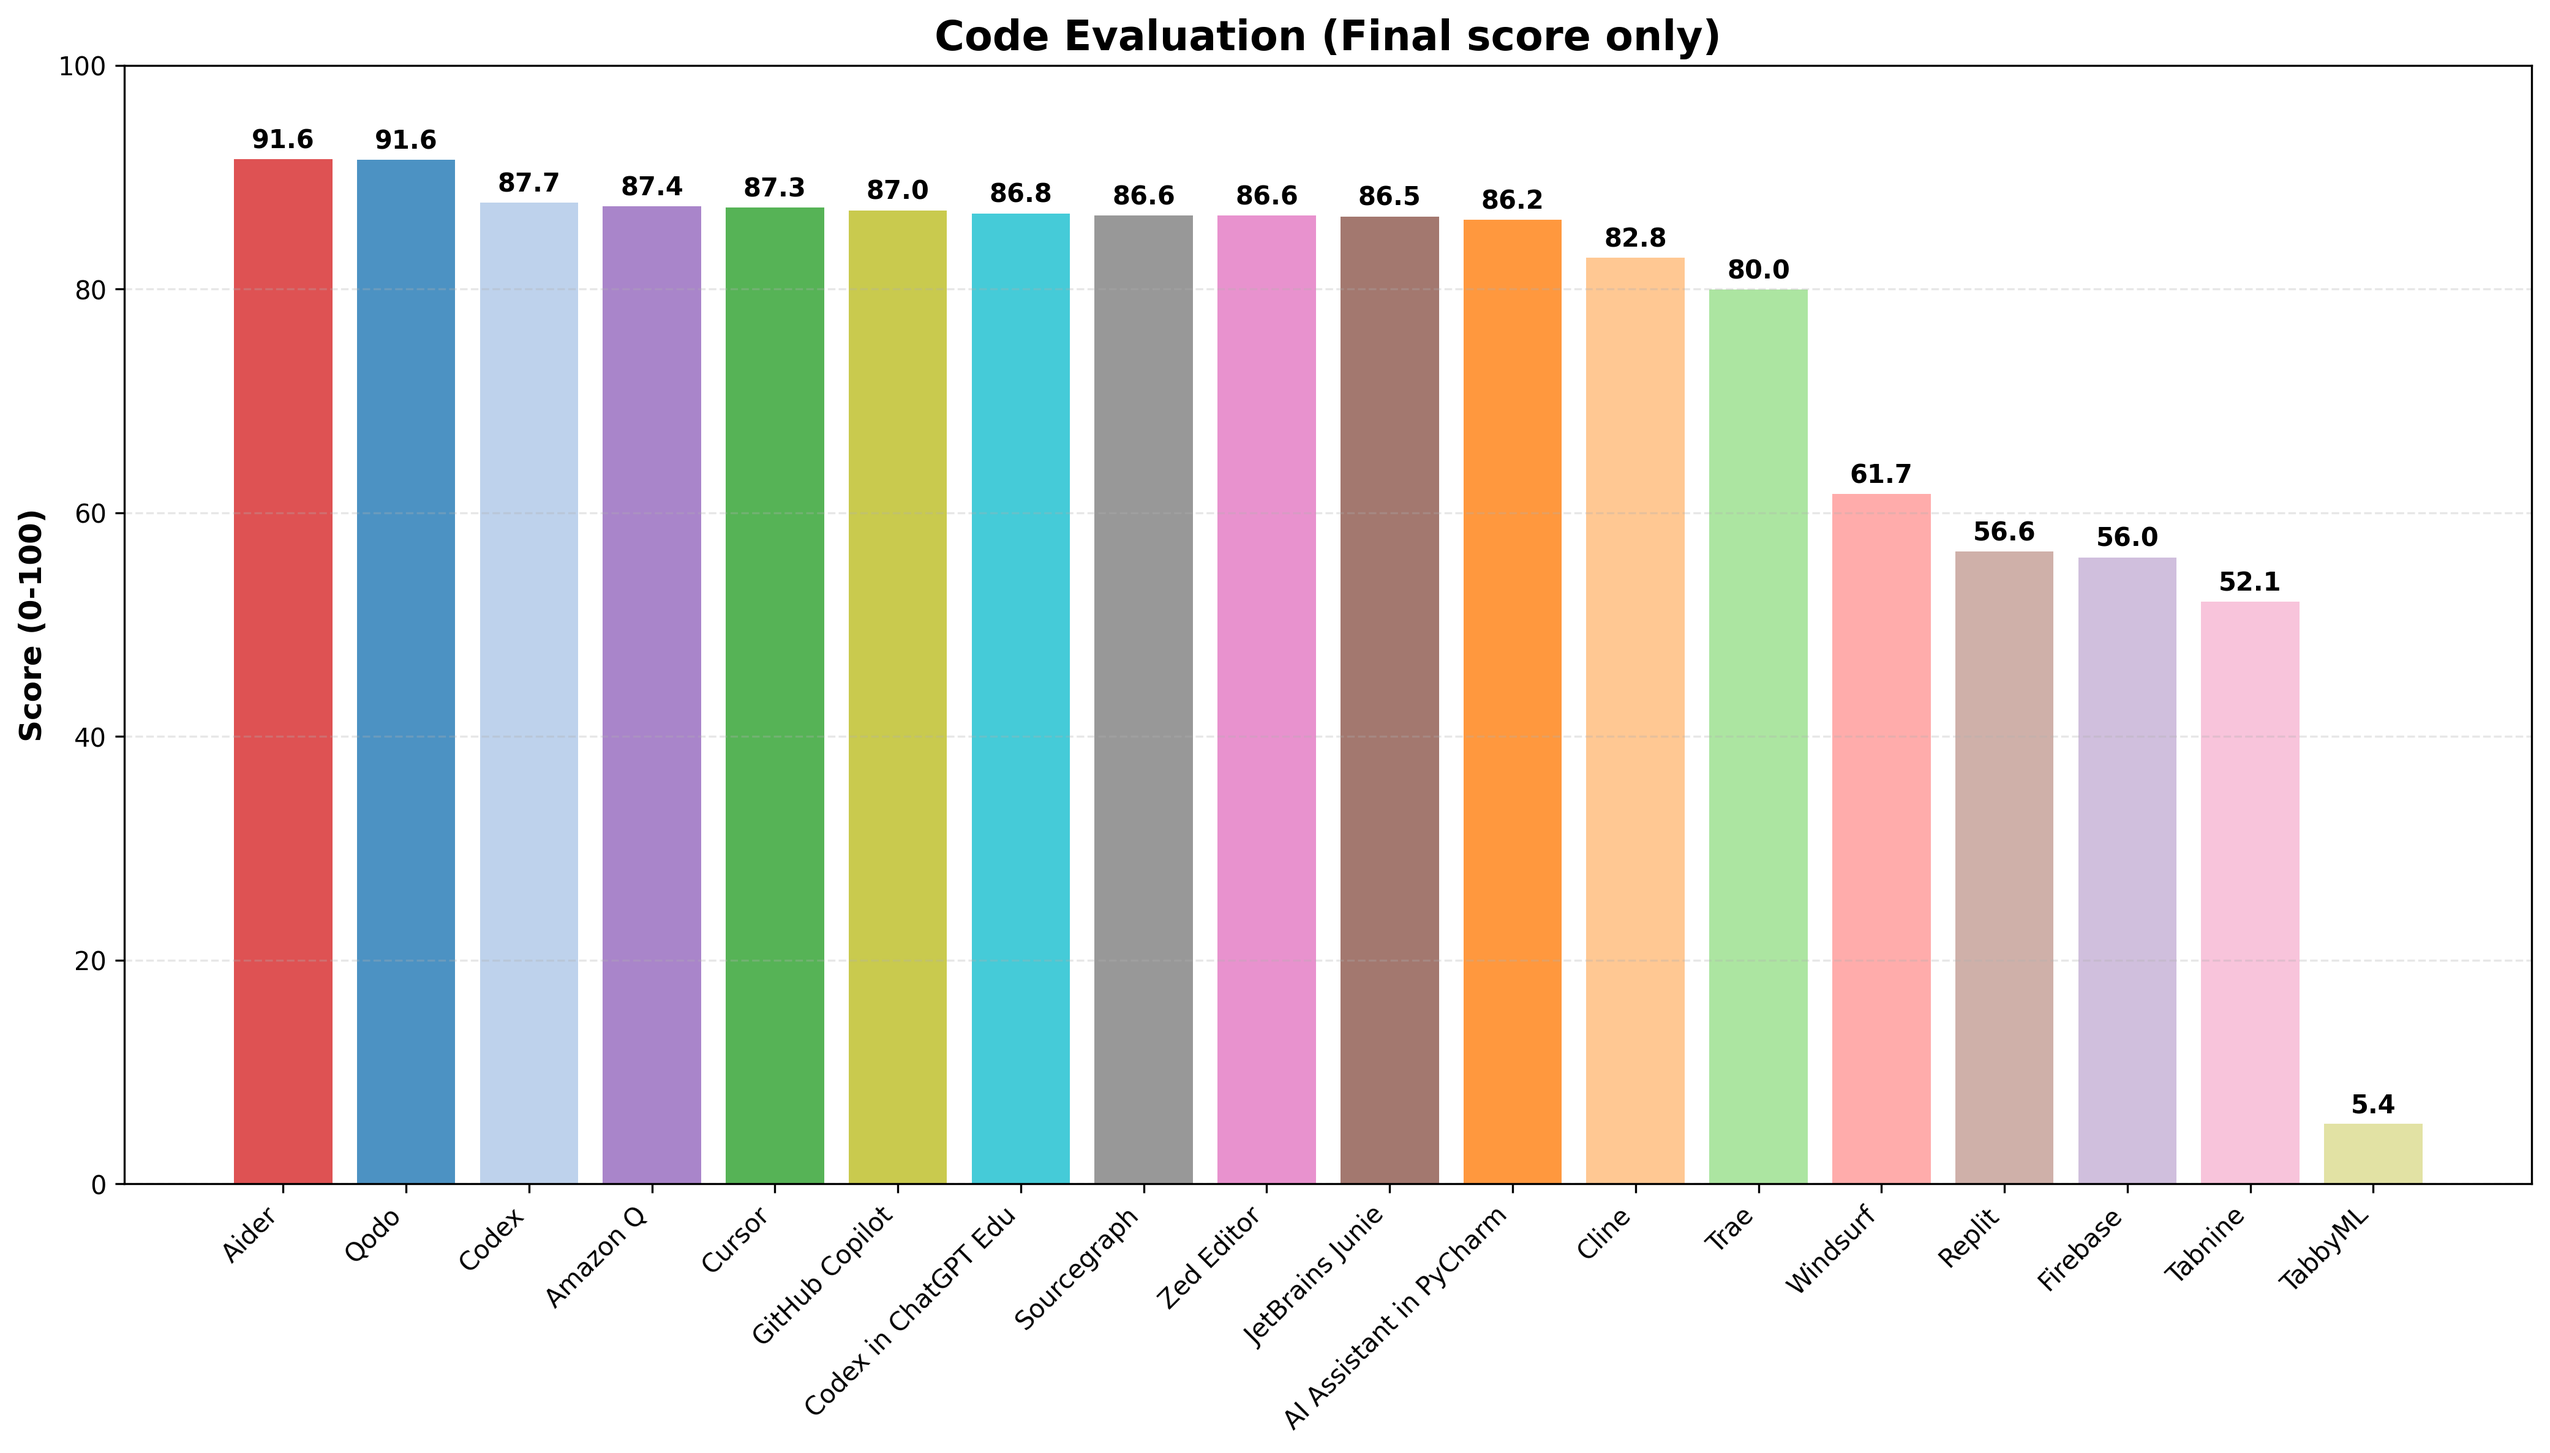
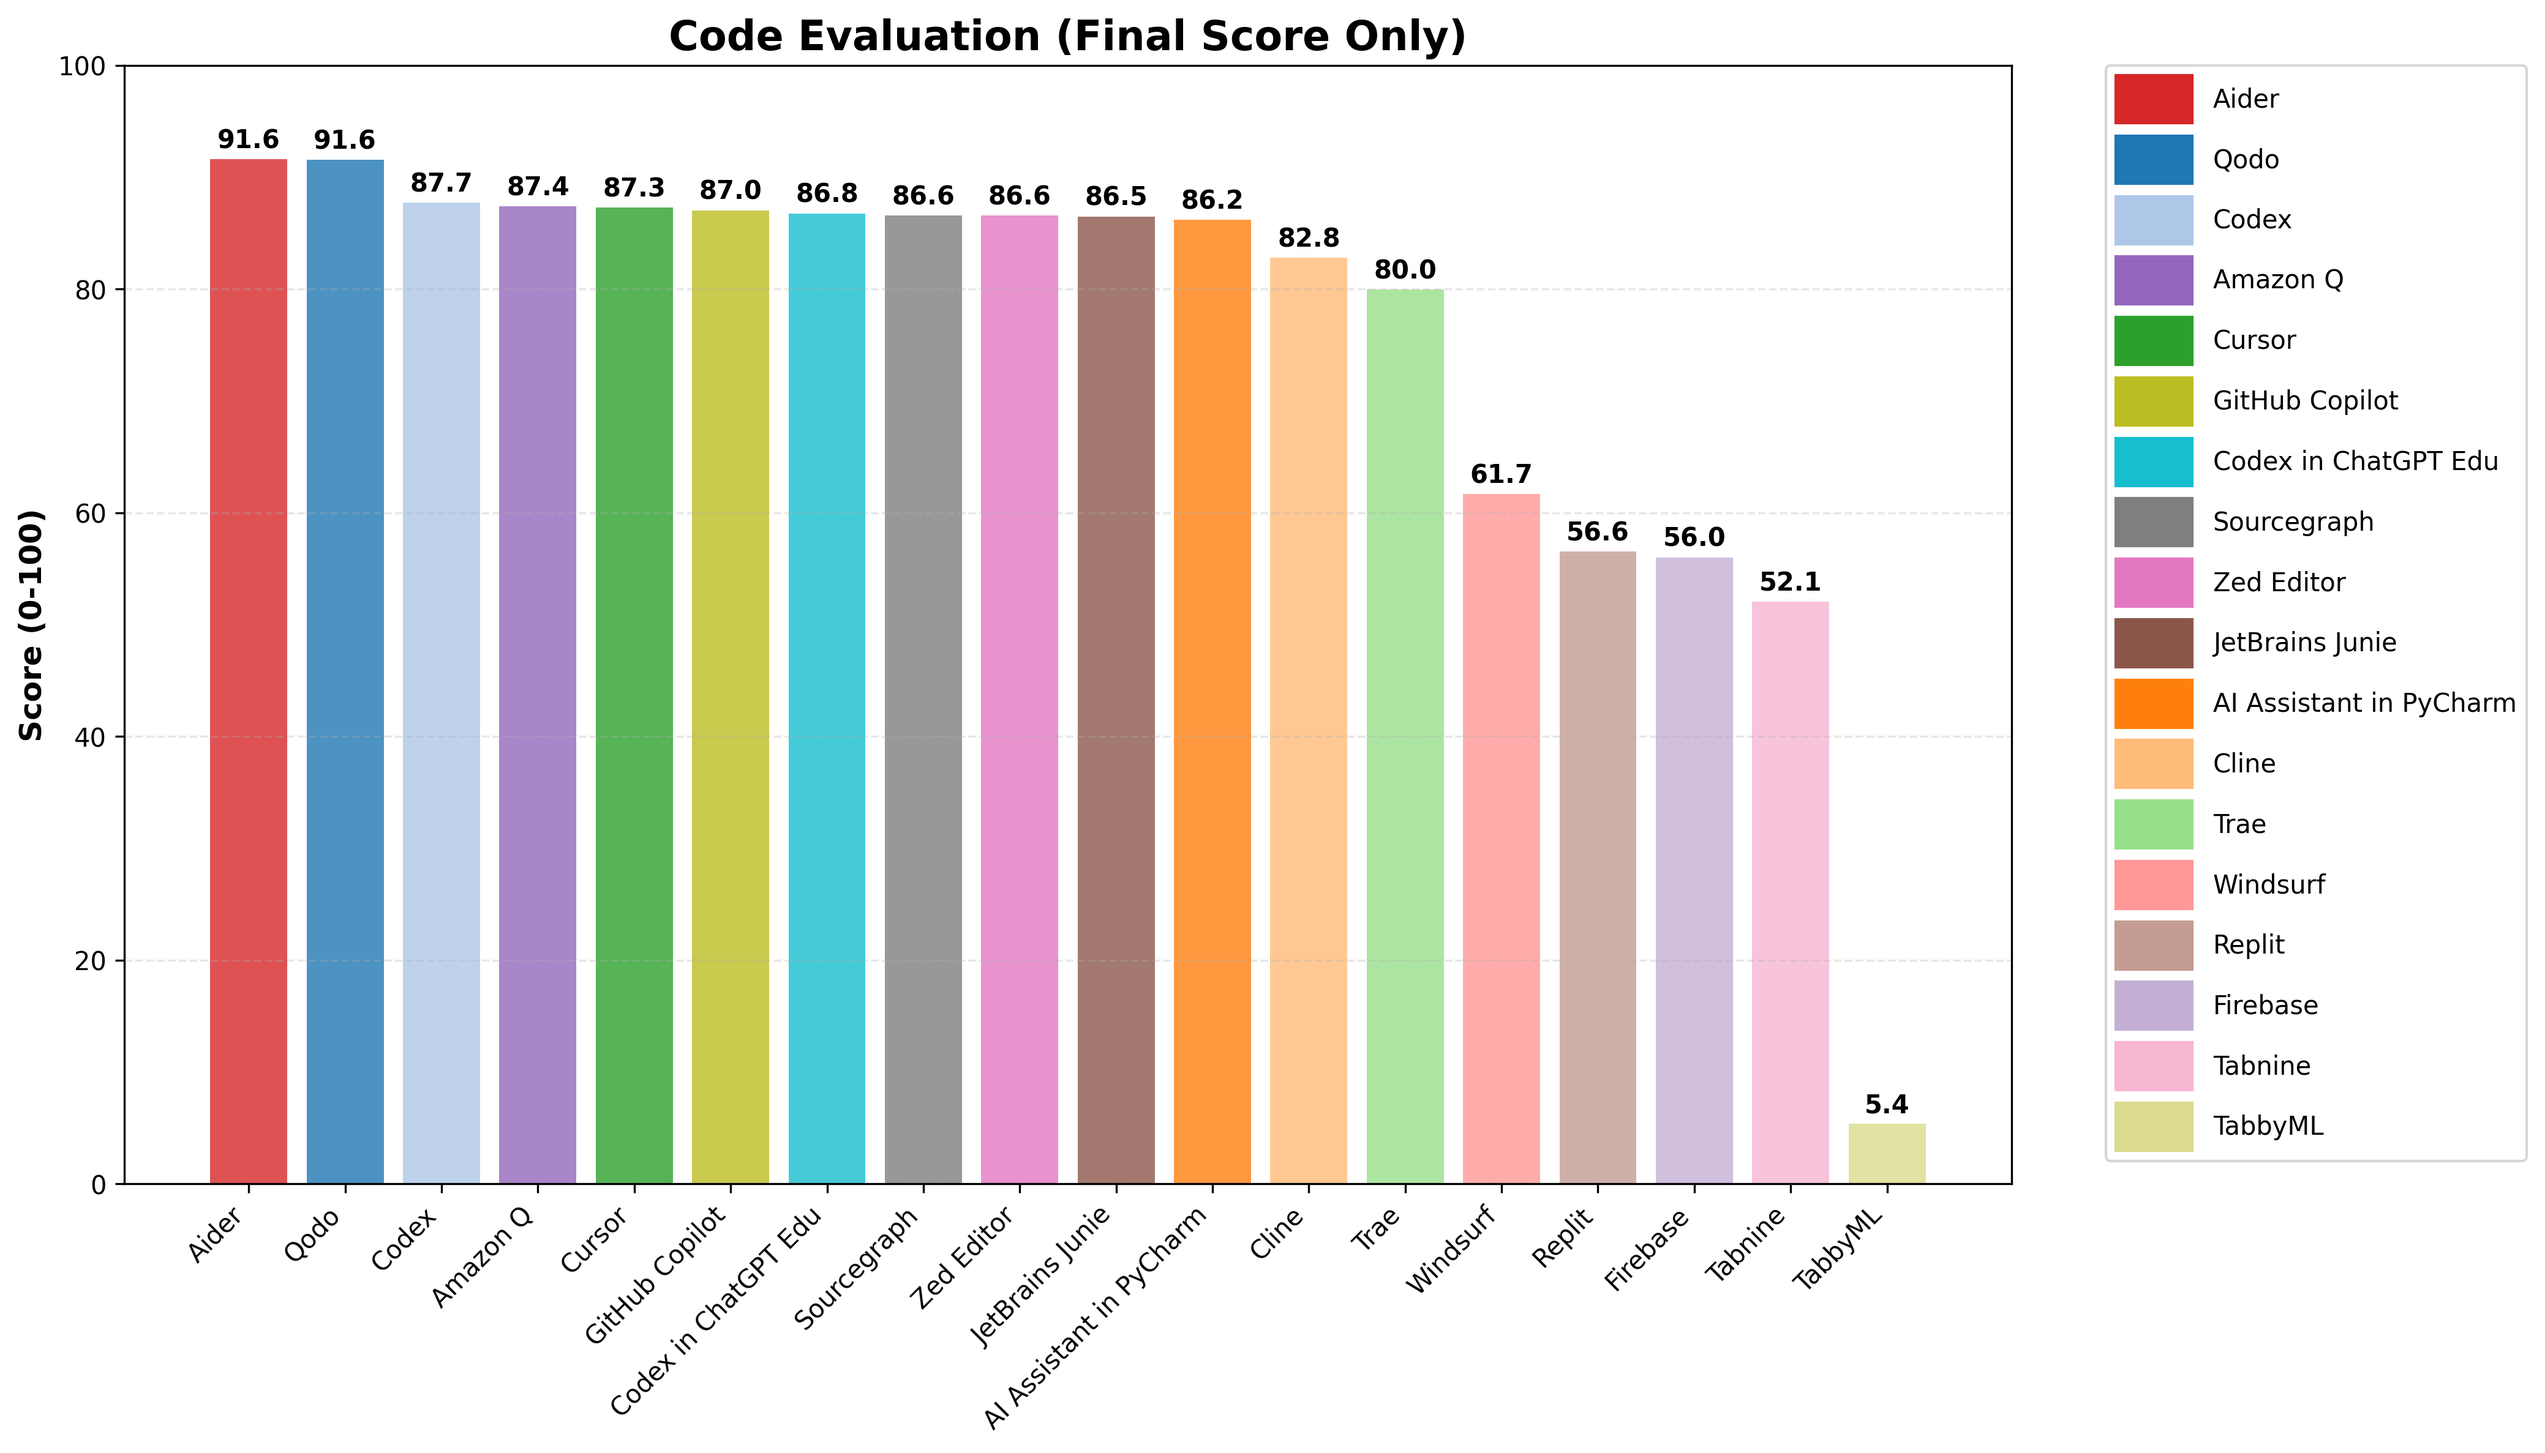
adjust figures

diff --git a/generate_plot.py b/generate_plot.py
@@ -249,7 +249,7 @@ def create_plot(scores, raw_scores):
     # Export: final scores only (no red overlay)
     plt.figure(figsize=(14, 8))
     plt.bar(names, adjusted_values, color=colors, alpha=0.8)
-    plt.title('Code Evaluation (Final score only)', fontsize=16, fontweight='bold')
+    plt.title('Code Evaluation (Final Score Only)', fontsize=16, fontweight='bold')
     plt.xlabel('')
     plt.ylabel('Score (0-100)', fontsize=12, fontweight='bold')
     plt.xticks(range(len(names)), names, rotation=45, ha='right')
@@ -257,6 +257,10 @@ def create_plot(scores, raw_scores):
     plt.grid(axis='y', alpha=0.3, linestyle='--')
     for i, adj_val in enumerate(adjusted_values):
         plt.text(i, adj_val + 0.5, f"{adj_val:.1f}", ha='center', va='bottom', fontweight='bold')
+    # Add color legend for assistants (same as combined chart, without correctness entry)
+    legend_handles = [plt.Rectangle((0,0),1,1, color=DISPLAY_TO_COLOR[name]) for name in names]
+    plt.legend(legend_handles, names, bbox_to_anchor=(1.05, 1), loc='upper left',
+              handleheight=2.5, handlelength=3, borderaxespad=0.)
     plt.tight_layout()
     plt.savefig('coding_assistants_only_final.png', dpi=300, bbox_inches='tight')
     plt.close()

diff --git a/google_trends_plot.py b/google_trends_plot.py
@@ -10,6 +10,19 @@ from datetime import datetime, timedelta
 import time
 from pytrends.request import TrendReq
 
+DISPLAY_LABELS = {
+    'vibe coding': 'Vibe Coding',
+    'cursor ai': 'Cursor AI',
+    'model context protocol': 'Model Context Protocol',
+    'github copilot': 'GitHub Copilot',
+    'ai code': 'AI Code',
+    'openai codex': 'OpenAI Codex',
+    'windsurf ai': 'Windsurf AI',
+}
+
+def to_display_label(keyword: str) -> str:
+    return DISPLAY_LABELS[keyword.lower()]
+
 def fetch_google_trends_data(keywords, geo='', timeframe='today 5-y'):
     """
     Fetch Google Trends data using pytrends library with consistent scaling.
@@ -93,7 +106,7 @@ def create_trends_plot(df, keywords):
     for i, keyword in enumerate(sorted_keywords):
         if keyword in df.columns:
             color = color_palette[i % len(color_palette)]
-            plt.plot(df.index, df[keyword], label=keyword, linewidth=2.5, color=color)
+            plt.plot(df.index, df[keyword], label=to_display_label(keyword), linewidth=2.5, color=color)
     
     # Customize the plot
     plt.title('Google Trends: Search Interest Over Time (Worldwide)', 

diff --git a/README.md b/README.md
@@ -44,7 +44,7 @@ Conduct the generation in an isolated environment to prevent LLMs from accessing
 
 ## Usage
 
-run generate_plot.py
+run generate_plot.py --skip-benchmark
 
 ![Plot](general_llms.png)
 
